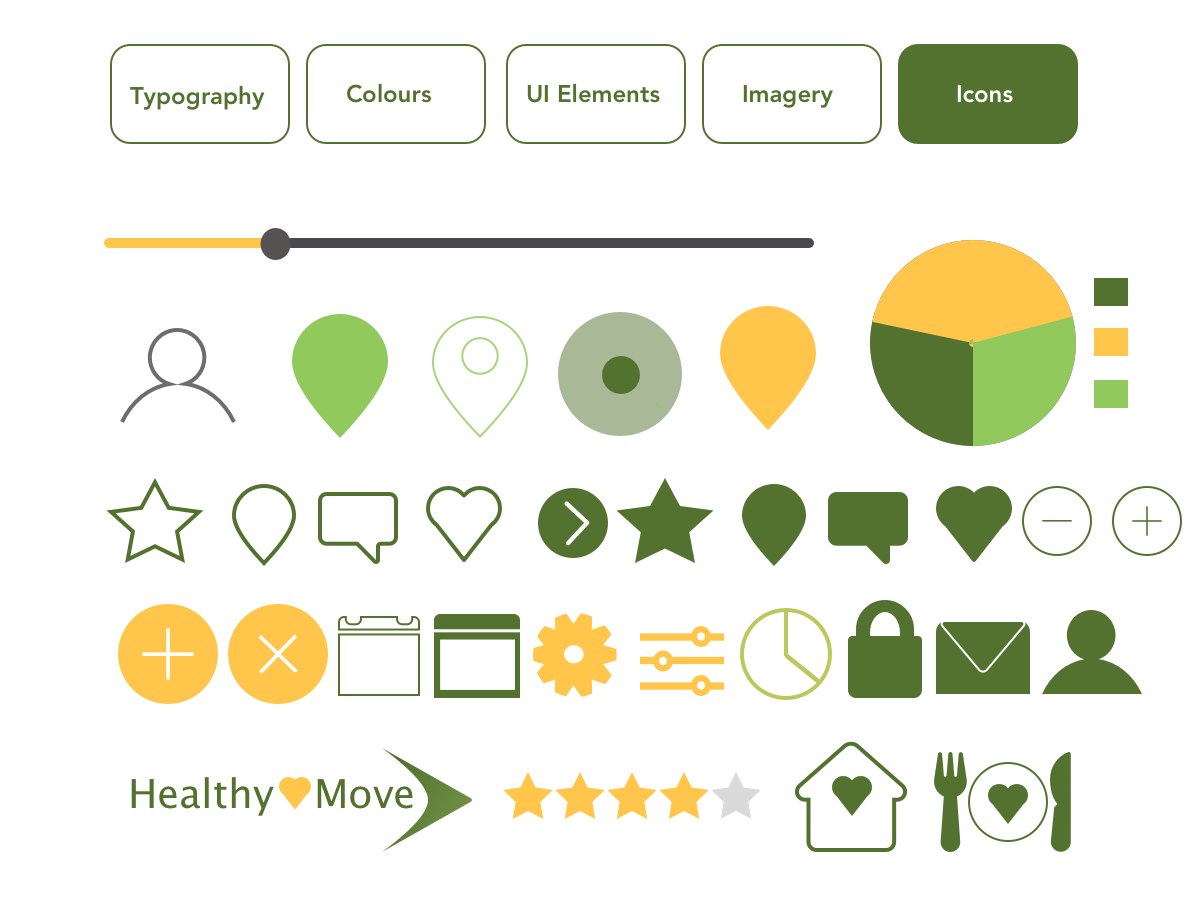
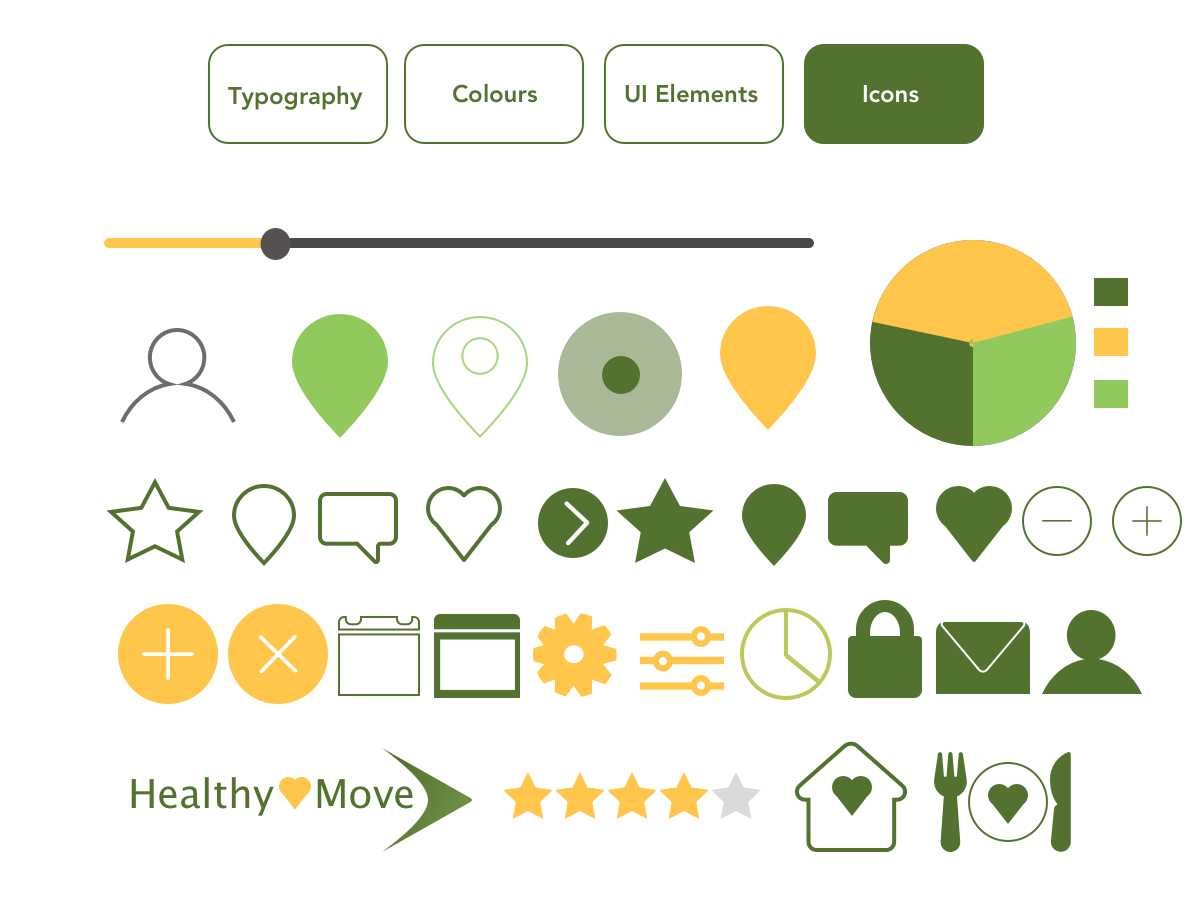
changed style guide

diff --git a/portfolio/healthymove.html b/portfolio/healthymove.html
@@ -728,13 +728,22 @@ to find gluten free food when compared to other restaurant search apps.
 	             
                 </p>
                  </div>
-	    <div class="col-xs-11">
-	    	 <img src="../assets/images/Typography@2x.png" style="background-color:#FFF;" class="img-responsive" alt="splash">
-	    	<img src="../assets/images/Colours@2x.png" style="background-color:#FFF;" class="img-responsive" alt="splash">
-	    	<img src="../assets/images/UIElements@2x.png" style="background-color:#FFF;" class="img-responsive" alt="splash">
-	    	<img src="../assets/images/Imagery@2x.png" style="background-color:#FFF;" class="img-responsive" alt="splash">
-	    		<img src="../assets/images/Icons@2x.png" style="background-color:#FFF;" class="img-responsive" alt="splash">
-	    	</DIV>
+	    <div class="col-xs-11 col-sm-6 col-md-6 ">
+	    	 <img src="../assets/images/Typography.png" style="background-color:#FFF;" class="img-responsive" alt="splash">
+	    	 </div>
+	    	 
+	    	   <div class="col-xs-11 col-sm-6 col-md-6 ">
+	    	<img src="../assets/images/Colours.png" style="background-color:#FFF;" class="img-responsive" alt="splash">
+	    	</div>
+	    	
+	    		   <div class="col-xs-11 col-sm-6 col-md-6 ">
+	    	<img src="../assets/images/UI Elements.png" style="background-color:#FFF;" class="img-responsive" alt="splash">
+	    	</div>
+	    	
+	    	
+	       <div class="col-xs-11 col-sm-6 col-md-6 ">
+	    		<img src="../assets/images/Icons.png" style="background-color:#FFF;" class="img-responsive" alt="splash">
+	    	</div>
 	    	
 	    	</div>
  
